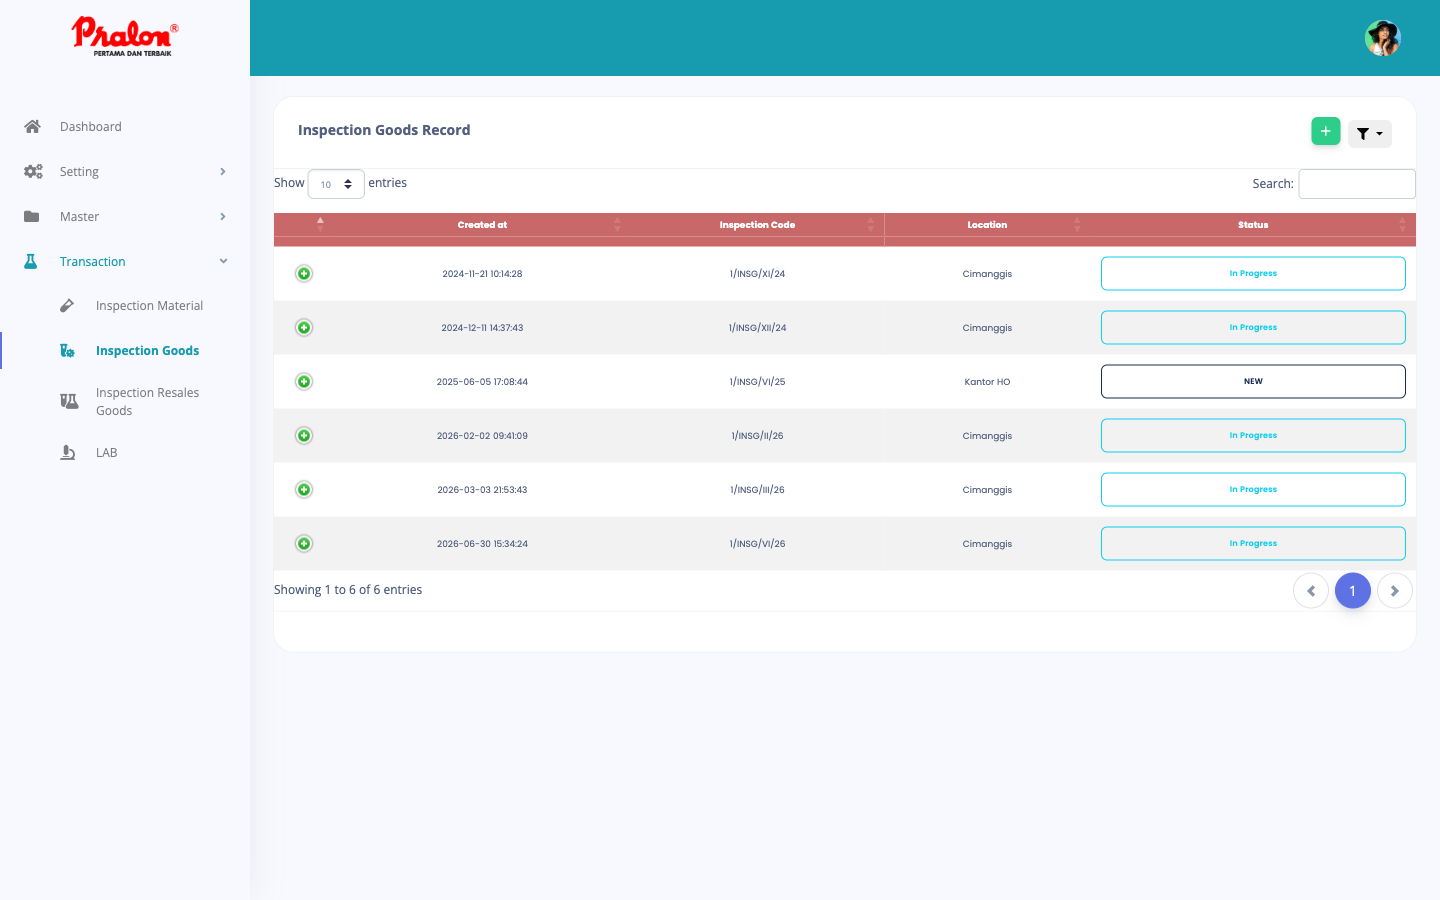
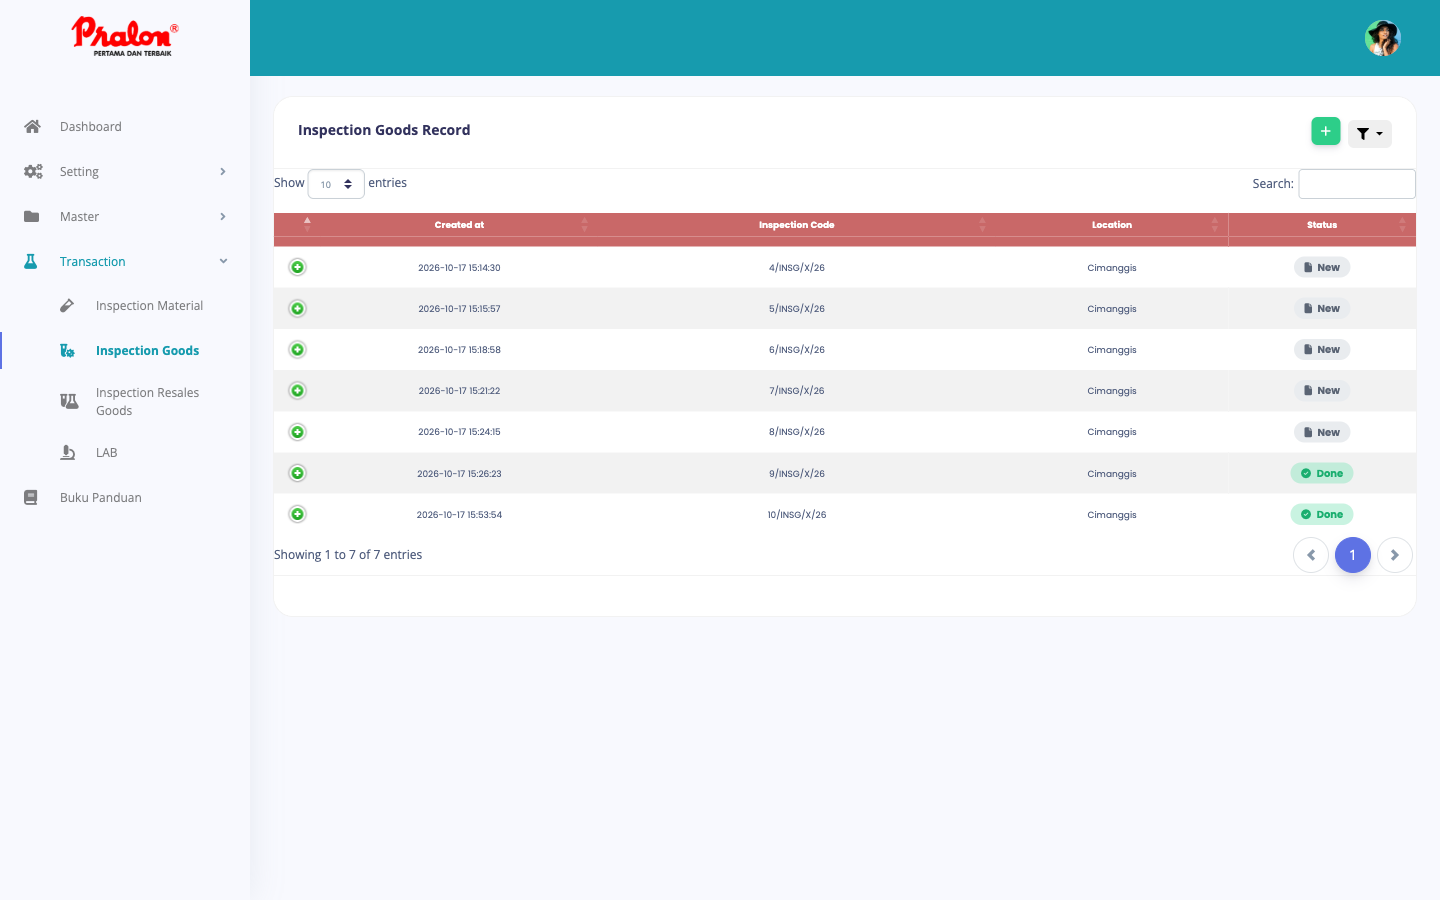
docs(manual): perbarui seluruh screenshot dokumentasi ke tampilan terbaru
- 8 gambar ditangkap ulang dari UI produksi (lab index/new test/detail,
  material, goods, resales, dashboard) — badge status pill & field baru
- report-preview.png kini menampilkan PDF LHU
- Gambar baru setting-akun.png + figure di bagian Setting Akun
- Teks 'Mencetak laporan' LAB menjelaskan dua mode cetak PDF (dengan kop /
  tanpa kop untuk kertas berkop) dan Excel formulir internal

diff --git a/resources/views/manual/manual-book.blade.php b/resources/views/manual/manual-book.blade.php
@@ -615,6 +615,10 @@
                     sekali di awal.
                 </li>
             </ul>
+            <figure class="manual-shot">
+                <img src="{{ asset('manual/images/setting-akun.png') }}" alt="Halaman Setting Akun dengan kartu Ubah Kata Sandi di kiri dan kanvas Tanda Tangan di kanan">
+                <figcaption>Halaman Setting Akun: kata sandi di kiri, kanvas tanda tangan di kanan.</figcaption>
+            </figure>
         </div>
 
         <div class="manual-card" id="manual-menus">
@@ -1030,9 +1034,18 @@
             </p>
 
             <h4>Mencetak laporan</h4>
+            <p>
+                Ada dua keluaran: <b>PDF</b> berformat LHU resmi (Laporan Pengujian Pipa PVC)
+                dan <b>Excel</b> berformat formulir internal Record of Laboratory Testing
+                (03/QC/12-1999 Rev-00). Saat menekan tombol PDF, sistem menanyakan mode cetak:
+            </p>
+            <ul>
+                <li><b>Dengan Kop (kertas polos)</b> &mdash; PDF lengkap dengan kop alamat dan bilah merah kontak di kaki halaman.</li>
+                <li><b>Tanpa Kop (kertas berkop)</b> &mdash; isi laporan saja, dengan ruang kosong di atas dan bawah; pakai mode ini bila mencetak di kertas kop pracetak yang disediakan kantor.</li>
+            </ul>
             <figure class="manual-shot">
-                <img src="{{ asset('manual/images/report-preview.png') }}" alt="Hasil cetak Record of Laboratory Testing dengan kondisi pengujian, tabel 13 parameter beserta hasil ukur dan evaluasi, kolom komentar, dan blok tanda tangan">
-                <figcaption>PDF dan Excel memakai tata letak yang sama, mengikuti formulir 03/QC/12-1999 Rev-00 &mdash; termasuk grup kolom CHECKER dan blok tanda tangan satu baris (V FACTORY MGR, VI QC Chift, VII Reporter, VIII Karu).</figcaption>
+                <img src="{{ asset('manual/images/report-preview.png') }}" alt="Hasil cetak LHU Laporan Pengujian Pipa PVC: kop surat Pralon, keterangan contoh, tabel hasil uji, kesimpulan, dan tiga penandatangan">
+                <figcaption>PDF berformat LHU: kop surat, keterangan contoh, tabel hasil uji, kesimpulan, dan tanda tangan Factory Manager, Kabag QC, serta petugas laboratorium (gambar tanda tangan diambil dari Setting Akun).</figcaption>
             </figure>
             <div class="manual-table-wrap">
                 <table class="manual-table">
@@ -1291,7 +1304,7 @@
             <ul>
                 <li><b>Export PDF &amp; Excel diperbaiki</b> &mdash; tombol cetak di semua menu transaksi sempat gagal (error 500) di server; kini seluruh PDF dan Excel berfungsi normal.</li>
                 <li><b>Excel per transaksi di semua menu</b> &mdash; Inspection Material dan Inspection Goods kini punya pilihan Excel yang benar-benar berfungsi di modal ekspornya; Excel Resales Goods dan LAB ditulis ulang sehingga rapi dibuka di spreadsheet, bukan lagi hasil konversi tampilan web.</li>
-                <li><b>Report LAB mengikuti formulir asli</b> &mdash; tata letak menyesuaikan formulir 03/QC/12-1999 Rev-00 (grup kolom CHECKER, blok tanda tangan V&ndash;VIII termasuk VIII Karu, label JIS K 6741), dan form New Test mendapat isian opsional <b>Customer</b>, <b>Proyek</b>, dan <b>Dibuat Untuk</b> yang ikut tercetak.</li>
+                <li><b>PDF LAB kini berformat LHU resmi</b> &mdash; Laporan Pengujian Pipa PVC lengkap dengan kop surat, keterangan contoh, tabel hasil uji, kesimpulan otomatis, dan tanda tangan dari Setting Akun; tersedia dua mode cetak (dengan kop, atau tanpa kop untuk kertas berkop). Excel tetap memakai formulir internal 03/QC/12-1999 Rev-00. Form New Test mendapat isian opsional <b>Customer</b>, <b>Proyek</b>, <b>Dibuat Untuk</b>, <b>Nama Contoh Uji</b>, <b>Keadaan Contoh</b>, dan <b>Petunjuk Pengambilan Contoh</b> yang ikut tercetak.</li>
                 <li><b>Setting Akun</b> &mdash; menu avatar kanan atas kini berisi Setting &amp; Logout; dari sana setiap pengguna bisa mengganti kata sandi dan menggambar tanda tangan untuk report (lihat bagian <a href="#manual-akun">Setting Akun</a>).</li>
                 <li><b>Tampilan diseragamkan</b> &mdash; badge status transaksi kini sama di keempat menu (Draft/New, In Progress, Approval Progress, Done, Reject), format tanggal seragam <code>YYYY-mm-dd HH:ii:ss</code>, dan modal approval Resales Goods di Dashboard ditata ulang (informasi transaksi + hasil sample + keputusan dalam satu tampilan).</li>
                 <li><b>Perbaikan kecil</b> &mdash; modal Edit Role User di User Access tidak lagi kehilangan nilai terpilih saat dibuka.</li>
